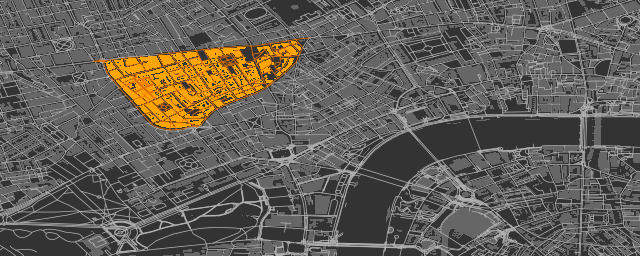
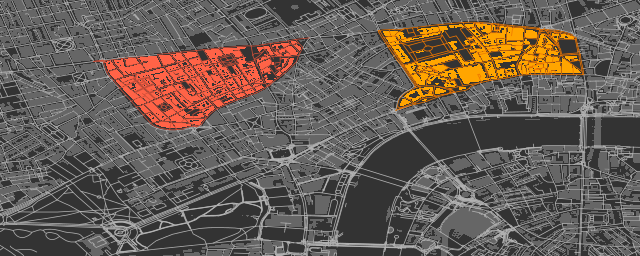
update readme

Changed region(s): [[0.5938, 0.0625, 0.9375, 0.4375], [0.1562, 0.1562, 0.4688, 0.5312]]

diff --git a/README.md b/README.md
@@ -23,7 +23,7 @@ dat_B <- extract_osm_objects (key="building", bbox=bbox)
 plot_osm_basemap (xylims=get_xylims (bbox), bg="gray20", file="map1.png")
 ```
 
-1.  Add desired plotting objects in the desired colour.
+1.  Overlay objects on plot in the desired colour.
 
 ``` r
 add_osm_objects (dat_B, col="gray40")
@@ -67,7 +67,7 @@ pts <- sp::SpatialPoints (cbind (c (-0.128, -0.138, -0.138, -0.128),
                              c (51.502, 51.502, 51.515, 51.515)))
 ```
 
-and then both buildings and parks highlighted with different colour schemes. The `col_extra` parameter defines the colour of the remaining, background area.
+and OSM objects within the defined regions highlighted with different colour schemes. The `col_extra` parameter defines the colour of the remaining, background area.
 
 ``` r
 plot_osm_basemap (xylims=get_xylims (bbox), bg="gray20", file="map3.png")
@@ -98,7 +98,7 @@ graphics.off ()
 
 ### Highlighting clusters
 
-`group_osm_objects` also enables plotting an entire region as a group of spatially distinct clusters of defined colours. First define some range groups:
+`group_osm_objects` also enables plotting an entire region as a group of spatially distinct clusters of defined colours. First define some random groups:
 
 ``` r
 ngroups <- 12
@@ -118,7 +118,7 @@ groups <- lapply (groups, function (i)
                })
 ```
 
-Calling `group_osm_objects` with `col_extra=NA` (or `NULL`) forces all points not immediately within defined groups to be allocated to the nearest groups, and thus produces an inclusive grouping extending across an entire area.
+Calling `group_osm_objects` with `col_extra=NA` (or `NULL`) forces all points lying outside defined groups to be allocated to the nearest groups, and thus produces an inclusive grouping extending across an entire area.
 
 ``` r
 plot_osm_basemap (xylims=get_xylims (bbox), bg='gray20', file='map5.png')
@@ -131,21 +131,27 @@ graphics.off ()
 
 ### Highlighting areas bounded by named highways
 
-An alternative way of defining highlighted groups is by naming the highways encircing desired regions.
+An alternative way of defining highlighted groups is by naming the highways encircling desired regions.
 
 ``` r
+highways <- c ("Kingsway", "Holborn", "Farringdon.St", "Strand",
+               "Fleet.St", "Aldwych")
+highways1 <- highways2polygon (highways=highways, bbox=bbox)
 highways <- c ('Regent.St', 'Oxford.St', 'Shaftesbury')
-highways <- highways2polygon (highways=highways, bbox=bbox)
+highways2 <- highways2polygon (highways=highways, bbox=bbox)
+groups <- list (highways1, highways2)
 ```
 
 and then passing the SpatialPolygon returned by `highways2polygon` to `group_osm_objects`:
 
 ``` r
 plot_osm_basemap (xylims=get_xylims (bbox), bg='gray20', file='map6.png')
-group_osm_objects (dat_B, groups=highways, boundary=1,
-                   col_extra='gray40', colmat=FALSE, col='orange')
-group_osm_objects (dat_H, groups=highways, boundary=0,
-                   col_extra='gray70', colmat=FALSE, col='darkorange2')
+col_B <- c ('orange', 'tomato')
+col_H <- c ('darkorange2', 'tomato3')
+group_osm_objects (dat_B, groups=groups, boundary=1,
+                   col_extra='gray40', colmat=FALSE, col=col_B)
+group_osm_objects (dat_H, groups=groups, boundary=0,
+                   col_extra='gray70', colmat=FALSE, col=col_H)
 graphics.off ()
 ```
 
